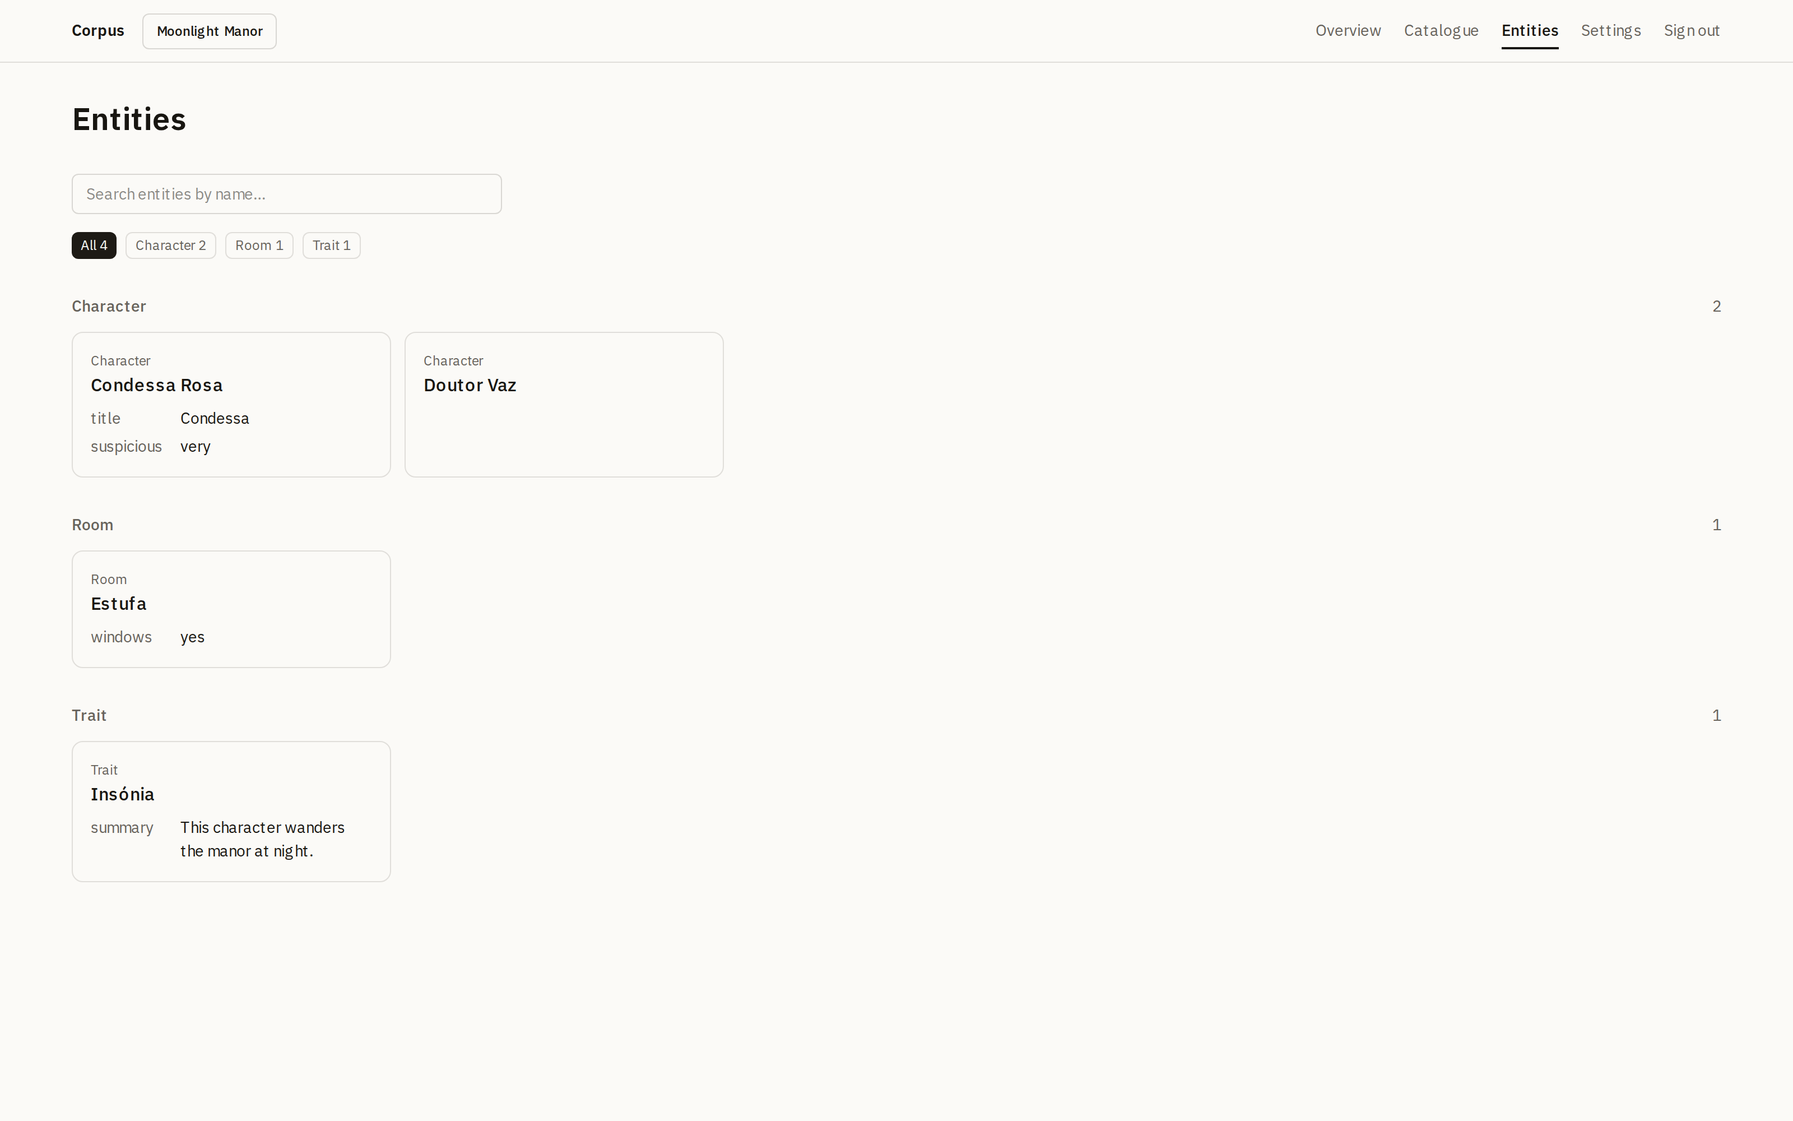
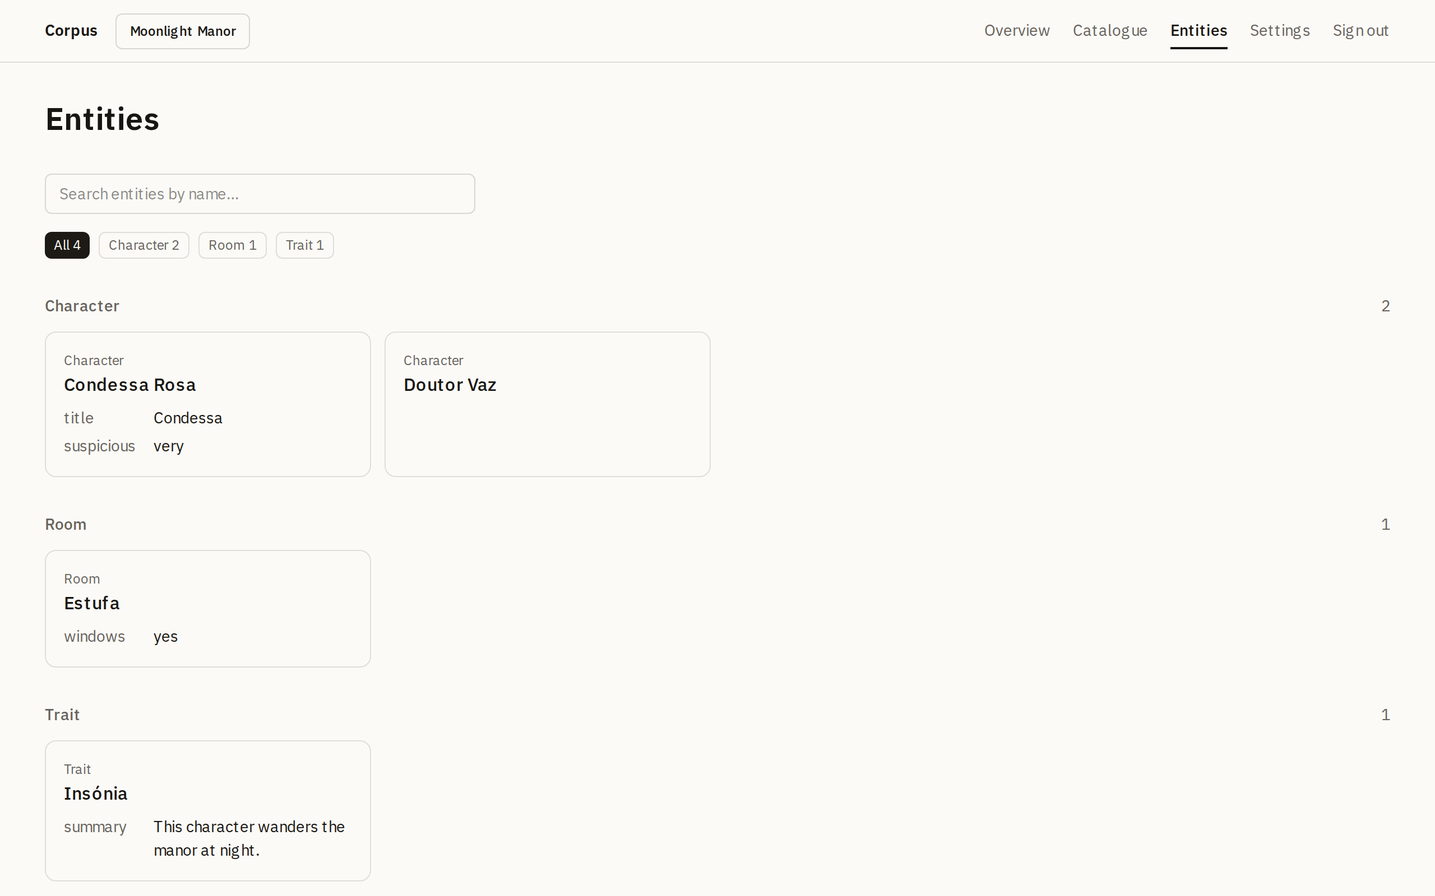
M9 s8: README for the headless path, 0.5.0, screenshots retaken
The README's quick start is init, workbench, push; a CI section shows
check, validate, pull --check and status --json as gates; the CLI
README and init's next steps stop sending people to the new-project
form. CHANGELOG 0.5.0; both packages bumped. The screenshot fixture
seeds the committed Portuguese catalogue, verifies and saves enough to
show every state and one stale row, captures home with both projects
and the catalogue unfiltered, at a 1280-wide desktop frame that ends
below the content instead of a 1600x1000 canvas.

diff --git a/apps/web/e2e/screenshots.ts b/apps/web/e2e/screenshots.ts
@@ -5,7 +5,7 @@
 import { chromium, type Page } from "@playwright/test";
 import { buildSnapshot, loadConfig } from "@corpus-tool/cli";
 import { moonlightManor } from "@corpus/contract";
-import { mkdirSync } from "node:fs";
+import { mkdirSync, readFileSync } from "node:fs";
 import path from "node:path";
 import { fileURLToPath } from "node:url";
 import { join, SMOKE_SECRET } from "./session";
@@ -48,16 +48,30 @@ async function main(): Promise<void> {
   const context = await browser.newContext({
     baseURL: base,
     viewport: desktop
-      ? { width: 1600, height: 1000 }
+      ? { width: 1280, height: 800 }
       : { width: 390, height: 844 },
     deviceScaleFactor: 2,
     colorScheme: scheme,
   });
   const page = await context.newPage();
-  // From the top of the page, whatever the last action scrolled to.
+  // From the top of the page, whatever the last action scrolled to. On
+  // desktop the frame ends a little under the content instead of at the
+  // viewport's bottom, so a short page is not mostly empty canvas.
   const shot = async (name: string) => {
     await page.evaluate(() => window.scrollTo(0, 0));
-    await page.screenshot({ path: path.join(out, `${name}-${suffix}.png`) });
+    const file = path.join(out, `${name}-${suffix}.png`);
+    if (!desktop) {
+      await page.screenshot({ path: file });
+      return;
+    }
+    const bottom = await page.evaluate(
+      () => document.querySelector("main")?.getBoundingClientRect().bottom ?? 0,
+    );
+    const height = Math.min(800, Math.max(440, Math.ceil(bottom) + 24));
+    await page.screenshot({
+      path: file,
+      clip: { x: 0, y: 0, width: 1280, height },
+    });
   };
 
   // The entry surfaces, before there is a session or a project.
@@ -69,10 +83,31 @@ async function main(): Promise<void> {
   await page.goto(`${base}/projects/new`, { waitUntil: "networkidle" });
   await shot("new-project");
 
+  const save = async (url: string, text: string) => {
+    await page.goto(url);
+    await page.getByRole("textbox").fill(text);
+    await page.getByRole("button", { name: "Save translation" }).click();
+    await page.waitForURL((next) => next.href !== url);
+  };
+  const verify = async (url: string, language: string) => {
+    await page.goto(url);
+    await page
+      .getByRole("button", { name: `Mark ${language} as verified` })
+      .click();
+    await page.waitForURL((next) => next.href !== url);
+  };
+
   // Corpus translating Corpus (§12): the repo's own chrome catalog, built
-  // by the real snapshot builder from corpus.config.ts.
+  // by the real snapshot builder from corpus.config.ts, seeded with the
+  // committed Portuguese catalogue so the surfaces show real progress.
   const config = await loadConfig(REPO);
   const chrome = await buildSnapshot(config, REPO);
+  const seeded = JSON.parse(
+    readFileSync(
+      path.join(REPO, "apps/web/src/i18n/messages.pt-PT.json"),
+      "utf8",
+    ),
+  ) as Record<string, string>;
   const chromeToken = await createProject(
     page,
     config.project,
@@ -80,40 +115,65 @@ async function main(): Promise<void> {
     config.sourceLanguage,
     config.languages,
   );
-  await page.request.post(`${base}/api/push`, {
-    headers: { authorization: `Bearer ${chromeToken}` },
-    data: chrome,
-  });
+  const pushChrome = (snapshot: typeof chrome) =>
+    page.request.post(`${base}/api/push`, {
+      headers: { authorization: `Bearer ${chromeToken}` },
+      data: snapshot,
+    });
+  await pushChrome({ ...chrome, seedTranslations: { "pt-PT": seeded } });
   const corpus = `${base}/p/${config.project}`;
   const chromeString = (key: string, query: string) =>
     `${corpus}/s/${encodeURIComponent(key)}?${query}`;
-  // One translation saved and one source proofread, so the surfaces have
-  // some history to show.
-  await page.goto(
-    chromeString("nav.catalogue", "queue=untranslated&language=pt-PT"),
-  );
-  await page.getByRole("textbox").fill("Catálogo");
-  await page.getByRole("button", { name: "Save translation" }).click();
-  await page.waitForURL((url) => !url.href.includes("nav.catalogue"));
-  await page.goto(
-    chromeString("app.tagline", "queue=unverifiedSource&language=en"),
-  );
-  await page.getByRole("button", { name: "Mark en as verified" }).click();
-  await page.waitForURL((url) => !url.href.includes("app.tagline"));
 
-  await page.goto(`${base}/`, { waitUntil: "networkidle" });
-  await shot("home");
+  // Enough history for every state to show: sources proofread in
+  // English, a few of the seeded translations verified, more saved by
+  // hand, and one source changed after its translation so a row is stale.
+  for (const key of [
+    "app.title",
+    "app.tagline",
+    "nav.overview",
+    "nav.catalogue",
+    "nav.entities",
+    "nav.settings",
+    "nav.signOut",
+    "dashboard.queuesHeading",
+    "dashboard.progressHeading",
+    "queue.untranslated",
+    "queue.stale",
+    "queue.unverifiedSource",
+    "catalogue.heading",
+    "entities.heading",
+    "settings.heading",
+    "verify.button",
+  ]) {
+    await verify(chromeString(key, "queue=unverifiedSource&language=en"), "en");
+  }
+  for (const key of ["app.title", "nav.overview", "nav.catalogue"]) {
+    await verify(chromeString(key, "language=pt-PT"), "pt-PT");
+  }
+  const drafts: Record<string, string> = {
+    "dashboard.queuesHeading": "O que fazer",
+    "dashboard.progressHeading": "Progresso",
+    "queue.untranslated": "Por traduzir",
+    "queue.stale": "Desatualizadas",
+    "queue.unverifiedSource": "Origem por verificar",
+    "state.verified": "Verificada",
+  };
+  for (const [key, text] of Object.entries(drafts)) {
+    await save(chromeString(key, "queue=untranslated&language=pt-PT"), text);
+  }
+  const changed = structuredClone(chrome);
+  const heading = changed.strings.find((s) => s.id === "entities.heading");
+  if (heading) heading.source = `${heading.source} & relations`;
+  await pushChrome(changed);
+
   await page.goto(corpus, { waitUntil: "networkidle" });
   await shot("dashboard");
-  await page.goto(`${corpus}/catalogue?q=verified`, {
-    waitUntil: "networkidle",
-  });
+  await page.goto(`${corpus}/catalogue`, { waitUntil: "networkidle" });
   await shot("catalogue");
   await page.goto(
     chromeString("verify.button", "queue=untranslated&language=pt-PT"),
-    {
-      waitUntil: "networkidle",
-    },
+    { waitUntil: "networkidle" },
   );
   await page.getByRole("textbox").fill("Marcar {language} como verificado");
   await shot("editor");
@@ -162,6 +222,9 @@ async function main(): Promise<void> {
   await shot("editor-structured");
   await page.goto(`${project}/entities`, { waitUntil: "networkidle" });
   await shot("entities");
+  // Both projects staged: the home page has two cards with real progress.
+  await page.goto(`${base}/`, { waitUntil: "networkidle" });
+  await shot("home");
 
   await browser.close();
   console.log(`${scheme}: screenshots written to ${out}`);

diff --git a/packages/cli/src/init.ts b/packages/cli/src/init.ts
@@ -59,13 +59,12 @@ export async function init(args: string[], ctx: RunContext): Promise<number> {
   ctx.out("");
   ctx.out("Next:");
   ctx.out(
-    `  1. Start an instance: corpus workbench (needs @corpus-tool/workbench), or use the one at ${server}.`,
+    `  1. corpus workbench (needs @corpus-tool/workbench) starts an instance, creates the project "${project}" and writes its token to .corpus/token.`,
   );
   ctx.out(
-    `  2. Create the project "${project}" at ${server}/projects/new and copy its push token.`,
+    `     For another instance at ${server}: CORPUS_INVITE_SECRET=<its secret> corpus project create prints the token, for CORPUS_TOKEN or .corpus/token.`,
   );
-  ctx.out("  3. export CORPUS_TOKEN=<token>");
-  ctx.out("  4. corpus push");
+  ctx.out("  2. corpus push");
   return 0;
 }
 

diff --git a/packages/cli/src/init.test.ts b/packages/cli/src/init.test.ts
@@ -91,7 +91,7 @@ test("writes a config that the loader accepts, and says what to do next", async 
     path: "src/i18n/{lang}.json",
   });
   expect(p.out.join("\n")).toMatch(/wrote corpus\.config\.ts/);
-  expect(p.out.join("\n")).toMatch(/projects\/new/);
+  expect(p.out.join("\n")).toMatch(/corpus workbench.*\.corpus\/token/);
   expect(p.out.join("\n")).toMatch(/corpus push/);
 });
 

diff --git a/README.md b/README.md
@@ -42,10 +42,19 @@ You need Node 22 and nothing else. In the repository whose text you want transla
 
 ```sh
 npm install --save-dev @corpus-tool/cli @corpus-tool/workbench
+npx corpus init --project my-game --source en --languages en,pt-PT \
+  --messages "src/i18n/{lang}.json" --server http://localhost:3000
 npx corpus workbench
 ```
 
-That starts an instance at http://localhost:3000 and prints the invite secret it generated. Open it, join with the secret, a display name and a password, and you are the maintainer. The database and the secret live under `.corpus/` in the repository, which the command adds to `.gitignore`; delete the directory to start over. Updating is `npm update` of the two packages, which always share a version.
+`init` writes `corpus.config.ts`, the whole configuration for a repository whose strings are a plain message catalog. `workbench` starts an instance at http://localhost:3000, creates the project the config declares, and prints the invite secret it generated; the project's token is written to `.corpus/token`, so in another shell:
+
+```sh
+npx corpus push          # the repository's text is in Corpus
+npx corpus status        # how far along each language is, from the terminal
+```
+
+Open the URL, join with the secret, a display name and a password, and you are the maintainer: translate, verify, then `npx corpus pull` writes the verified translations back into the repository's files. The database, the secret and the token live under `.corpus/`, which the command adds to `.gitignore`; delete the directory to start over. Updating is `npm update` of the two packages, which always share a version.
 
 ## For a team
 
@@ -64,14 +73,7 @@ Two things to know before exposing it: mount a directory, never a single file (S
 
 ## Connect a repository
 
-With the packages installed, let the CLI write the config:
-
-```sh
-npx corpus init --project my-game --source en --languages en,pt-PT \
-  --messages "src/i18n/{lang}.json" --server http://localhost:3000
-```
-
-That writes a `corpus.config.ts`, the whole configuration for a repository whose strings are a plain message catalog. The CLI never guesses where text lives; the config declares it:
+The CLI never guesses where text lives; `corpus.config.ts` declares it:
 
 ```ts
 import { defineCorpus } from "@corpus-tool/cli";
@@ -87,20 +89,42 @@ export default defineCorpus({
 });
 ```
 
-With the instance running, create the project in it (it shows you the push token once), then push:
+The project exists on the instance before the first push. `corpus workbench` creates it when it starts in a repository with a config and no `.corpus/token`; against any other instance, the instance secret creates it and prints the token once, alone on the last line, for `CORPUS_TOKEN` or `.corpus/token`:
 
 ```sh
-export CORPUS_TOKEN=<token>
+CORPUS_INVITE_SECRET=<the instance secret> npx corpus project create --name "My game"
+```
+
+Every command reads the token from `CORPUS_TOKEN`, then from `.corpus/token`; `corpus project rotate-token` replaces it with the current one and rewrites the file when that is where it came from. The commands:
+
+```sh
 npx corpus build                      # no server: runs the sources, validates, prints a summary
 npx corpus push                       # repo → Corpus: adds, changes, marks stale, archives
+npx corpus status                     # per-language and per-type counts; --json for a script
 npx corpus pull                       # Corpus → repo: verified translations only
 npx corpus pull --min-state translated  # Corpus → repo: translated and verified
+npx corpus pull --lang pt-PT          # one language's files, the rest untouched
+npx corpus pull --check               # writes nothing; exit 1 if a pull would change a file
+npx corpus validate                   # no server: every translation still fits its source
 npx corpus check                      # lint: user-facing literals outside declared sources (ignore by prefix or glob)
 ```
 
-`build` needs no server or token, so a config or an exporter can be checked as it is written; it also names any source that cannot take translations back (an `exec` source without `importCommand`, a path without `{lang}`, a `.ts` catalogue, since pull writes JSON only), as does `push`. Pushing is a diff by string id: new ids are added, changed source text marks its translations stale, ids that disappear are archived with their history kept. Pulling writes translations back and prints only the files it changed. Node 22 or later; a TypeScript config needs no build step.
+`build` needs no server or token, so a config or an exporter can be checked as it is written; it also names any source that cannot take translations back (an `exec` source without `importCommand`, a path without `{lang}`, a `.ts` catalogue, since pull writes JSON only), as does `push`. Pushing is a diff by string id: new ids are added, changed source text marks its translations stale, ids that disappear are archived with their history kept; push also names any language the config and the project disagree on, since the config sets the project's languages once, at creation, and the settings page owns them after that. Pulling writes translations back and prints only the files it changed. `validate` runs the editor's checks over the target files (a placeholder dropped, a select malformed, a key the source no longer has) with no server, so a hand edit or a merge cannot ship a broken translation. Node 22 or later; a TypeScript config needs no build step.
 
 Structured sources, `table` records (a module's default or named export, with the fields to carry as metadata listed in the map) or an `exec` command that emits entries, are described in the [design spec, §3](docs/corpus-design.md). Note that `corpus push` and `corpus pull` run the repository's own `corpus.config.ts` and any `exec` commands it declares, so run them only in repositories you trust, as you would their build scripts.
+
+## In CI
+
+Nothing here needs a browser. A job with `CORPUS_TOKEN` in its environment can gate a merge on the translation state:
+
+```sh
+npx corpus check                                          # no stray literals
+npx corpus validate                                       # every translation still fits its source
+npx corpus pull --check                                   # the repository carries what is verified
+npx corpus status --json | jq -e '.progress.perLanguage["pt-PT"].untranslated == 0'
+```
+
+`status --json` is the dashboard's numbers as one object: per language and per string type, `untranslated`, `translated`, `verified`, `stale` and `total`, with the string count, the last push and the server's version. A throwaway instance for a test job is `corpus workbench` in the repository, which creates the project and writes the token itself; this repository's own gate does exactly that (`bin/install-smoke`), and pushes its interface strings to a fresh container the same way (`bin/dogfood`).
 
 ## How it works
 
@@ -173,7 +197,7 @@ Environment variables are documented in [`apps/web/.env.example`](apps/web/.env.
 | `PORT`                 | `3000` (`--port`)                 | `3000`                            | `3000`                         |
 | `CORPUS_PUBLIC_URL`    | unset                             | the public origin, behind a proxy | unset                          |
 
-Migrations apply automatically when the app starts, and the boot log names the database file it opened.
+The CLI reads the project token from `CORPUS_TOKEN`, then from `.corpus/token`, which `corpus workbench` writes; `corpus project create` needs the instance secret in `CORPUS_INVITE_SECRET`, or reads `.corpus/secret` when the server is the local workbench. Migrations apply automatically when the app starts, and the boot log names the database file it opened.
 
 ## Local development
 
@@ -189,7 +213,7 @@ npm run dev
 
 The database is created on first start at `apps/web/data/corpus.db` and is gitignored; delete it to start over.
 
-`bin/gate` is the one quality gate, locally and in CI: typecheck, lint, format, the CLI build, the full test suite, and `corpus check` on this repository's own interface strings. `bin/smoke` walks the whole loop in a browser, invite to verified translation, on a phone viewport and then checks the desktop layouts; `bin/container-smoke` builds and boots the production image; `bin/install-smoke` installs the packed CLI and workbench into a fresh repository and round-trips it against `corpus workbench` and then against that image; `bin/screenshots` regenerates the images above. Releases are tags: see `AGENTS.md`.
+`bin/gate` is the one quality gate, locally and in CI: typecheck, lint, format, both package builds, the full test suite, and `corpus check` and `corpus validate` on this repository's own interface strings. `bin/smoke` walks the whole loop in a browser, invite to verified translation, on a phone viewport and then checks the desktop layouts; `bin/container-smoke` builds and boots the production image; `bin/install-smoke` installs the packed CLI and workbench into a fresh repository and round-trips it against `corpus workbench` and then against that image; `bin/screenshots` regenerates the images above. Releases are tags: see `AGENTS.md`.
 
 ## Documentation
 
@@ -200,7 +224,7 @@ The database is created on first start at `apps/web/data/corpus.db` and is gitig
 
 ## Status
 
-The MVP is complete, the interface has been through two design passes, and Corpus ships on npm as `@corpus-tool/cli` and `@corpus-tool/workbench`, with the image published beside them at the same version. Corpus runs its own translation into Portuguese from this repository on every build, and every release installs both packages into a fresh repository and round-trips them, with and without Docker, before publishing. A first outside project has been through it and its findings are in.
+The MVP is complete, the interface has been through two design passes, and Corpus ships on npm as `@corpus-tool/cli` and `@corpus-tool/workbench`, with the image published beside them at the same version. Corpus runs its own translation into Portuguese from this repository on every build, and every release installs both packages into a fresh repository and round-trips them, with and without Docker, before publishing. A first outside project has been through it, and what it asked for next, a CLI that covers the whole loop with no browser and no token pasted, is in.
 
 ## License
 

diff --git a/CHANGELOG.md b/CHANGELOG.md
@@ -7,6 +7,25 @@ contract (`corpus/1`) is the only one.
 
 ## [Unreleased]
 
+## [0.5.0] - 2026-09-07
+
+The CLI covers the headless path: what the first outside integration asked for, ranked by how often it was blocked.
+
+### Added
+
+- `corpus workbench` creates the project `corpus.config.ts` declares when it starts in a repository with no `.corpus/token`, and writes the token there (owner-only); an existing project is named with its settings page. `--no-provision` opts out.
+- `corpus project create [--name] [--server]` creates the config's project on any instance with the instance secret (`CORPUS_INVITE_SECRET`, or `.corpus/secret` for a local workbench) and prints the token alone on the last line of stdout; `corpus project rotate-token` replaces a token with the current one and rewrites `.corpus/token` when that is where it came from. Server side: `POST /api/projects` with the secret, rate-limited like the join form, and `POST /api/projects/<slug>/token` with the current token.
+- Every command reads the token from `CORPUS_TOKEN`, then from `.corpus/token`.
+- `corpus status [--json]`: the dashboard's numbers in the terminal, per language and per string type, with the string count, the last push and the server's version, and a line naming any language the config and the project disagree on. `GET /api/status` with the project token.
+- `corpus pull --lang <l>` (repeatable) pulls one language's files and leaves the rest alone (`/api/pull?lang=`); `corpus pull --check` writes nothing and exits 1 when a pull would change a file.
+- `corpus validate [--json]`: the editor's checks over the target files of every JSON source, offline: a dropped placeholder, a malformed select, or a key the source no longer has is a finding, `file:key: message` one per line, exit 1. The repository's own gate runs it.
+- `corpus push` names languages the config declares that the project lacks, and the reverse.
+
+### Changed
+
+- The gate scripts (`bin/dogfood`, `bin/install-smoke`, the screenshot fixture) create their projects through the CLI and the API instead of inserting rows by hand.
+- The README's quick start is `init`, `workbench`, `push`; a section on CI gates; the screenshots are retaken at a smaller desktop viewport with a staged project that shows every state.
+
 ## [0.4.1] - 2026-09-07
 
 What the demo project's integration found.

diff --git a/packages/cli/README.md b/packages/cli/README.md
@@ -1,16 +1,16 @@
 # @corpus-tool/cli
 
-The `corpus` command for [Corpus](https://github.com/miguelaguiar01/corpus), a self-hosted translation workbench for games and apps whose text is structured. The CLI runs inside the repository whose text is translated: `corpus init` writes the config, `corpus push` uploads the repository's text to a Corpus instance, `corpus pull` writes verified translations back, and `corpus check` lints for user-facing literals outside declared sources.
+The `corpus` command for [Corpus](https://github.com/miguelaguiar01/corpus), a self-hosted translation workbench for games and apps whose text is structured. The CLI runs inside the repository whose text is translated: `corpus init` writes the config, `corpus workbench` starts an instance from the companion package and creates the project, `corpus push` uploads the repository's text, `corpus status` shows how far each language is, `corpus pull` writes verified translations back, and `corpus validate` and `corpus check` keep the repository honest offline.
 
 ```sh
-npm install --save-dev @corpus-tool/cli
+npm install --save-dev @corpus-tool/cli @corpus-tool/workbench
 npx corpus init --project my-game --source en --languages en,pt-PT \
-  --messages "src/i18n/{lang}.json" --server https://corpus.example
-export CORPUS_TOKEN=<the project's push token>
+  --messages "src/i18n/{lang}.json" --server http://localhost:3000
+npx corpus workbench      # starts the instance, creates the project, writes .corpus/token
 npx corpus push
 npx corpus pull
 ```
 
-`push` and `pull` execute the repository's own `corpus.config.ts` and any `exec` commands it declares, by design: run them only in repositories you trust, as you would their build scripts. Node 22 or later.
+Against a team's instance, `CORPUS_INVITE_SECRET=<secret> npx corpus project create` prints the project's token once, for `CORPUS_TOKEN` or `.corpus/token`. `push`, `pull` and `validate` execute the repository's own `corpus.config.ts` and any `exec` commands it declares, by design: run them only in repositories you trust, as you would their build scripts. Node 22 or later.
 
 The full guide, the design spec, and the changelog live in the [repository](https://github.com/miguelaguiar01/corpus).
